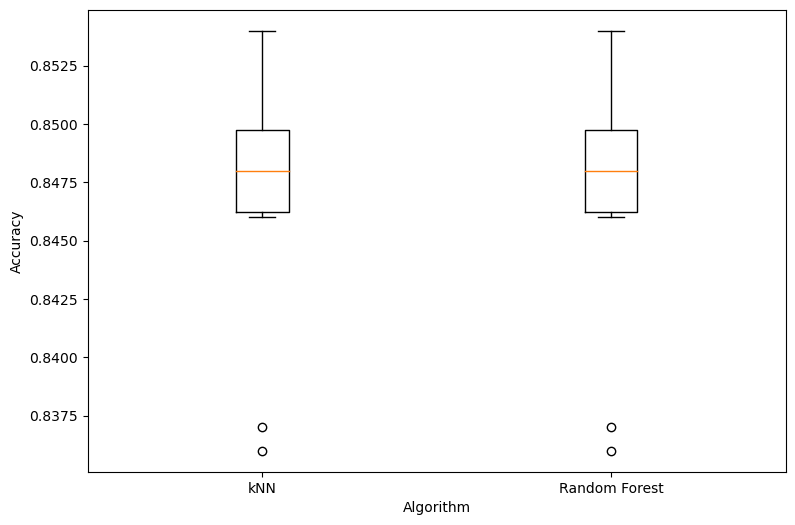
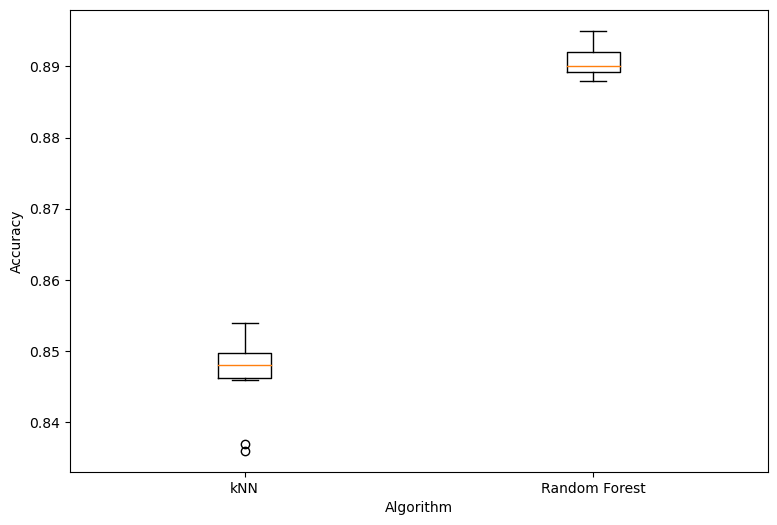
added pics of boxplots and elbow test

diff --git a/Visualizer.py b/Visualizer.py
@@ -6,10 +6,10 @@ mpl.use('agg')
 import matplotlib.pyplot as plt
 
 knn_time = [251.63, 266.57, 265.76, 271.30, 271.30, 263.80, 257.88, 244.08, 269.09, 349.72]
-forest_time = [251.63, 266.57, 265.76, 271.30, 271.30, 263.80, 257.88, 244.08, 269.09, 349.72]
+forest_time = [64.98, 65.75, 66.42, 65.75, 66.19, 65.95, 65.81, 65.75, 66.09, 67.12]
 
 knn_accuracy = [0.847, 0.847, 0.846, 0.837, 0.849, 0.854, 0.851, 0.849, 0.836, 0.850]
-forest_accuracy = [0.847, 0.847, 0.846, 0.837, 0.849, 0.854, 0.851, 0.849, 0.836, 0.850]
+forest_accuracy = [0.895, 0.890, 0.890, 0.895, 0.888, 0.889, 0.892, 0.892, 0.890, 0.889]
 
 time_data_to_plot = [knn_time, forest_time]
 accuracy_data_to_plot = [knn_accuracy, forest_accuracy]
